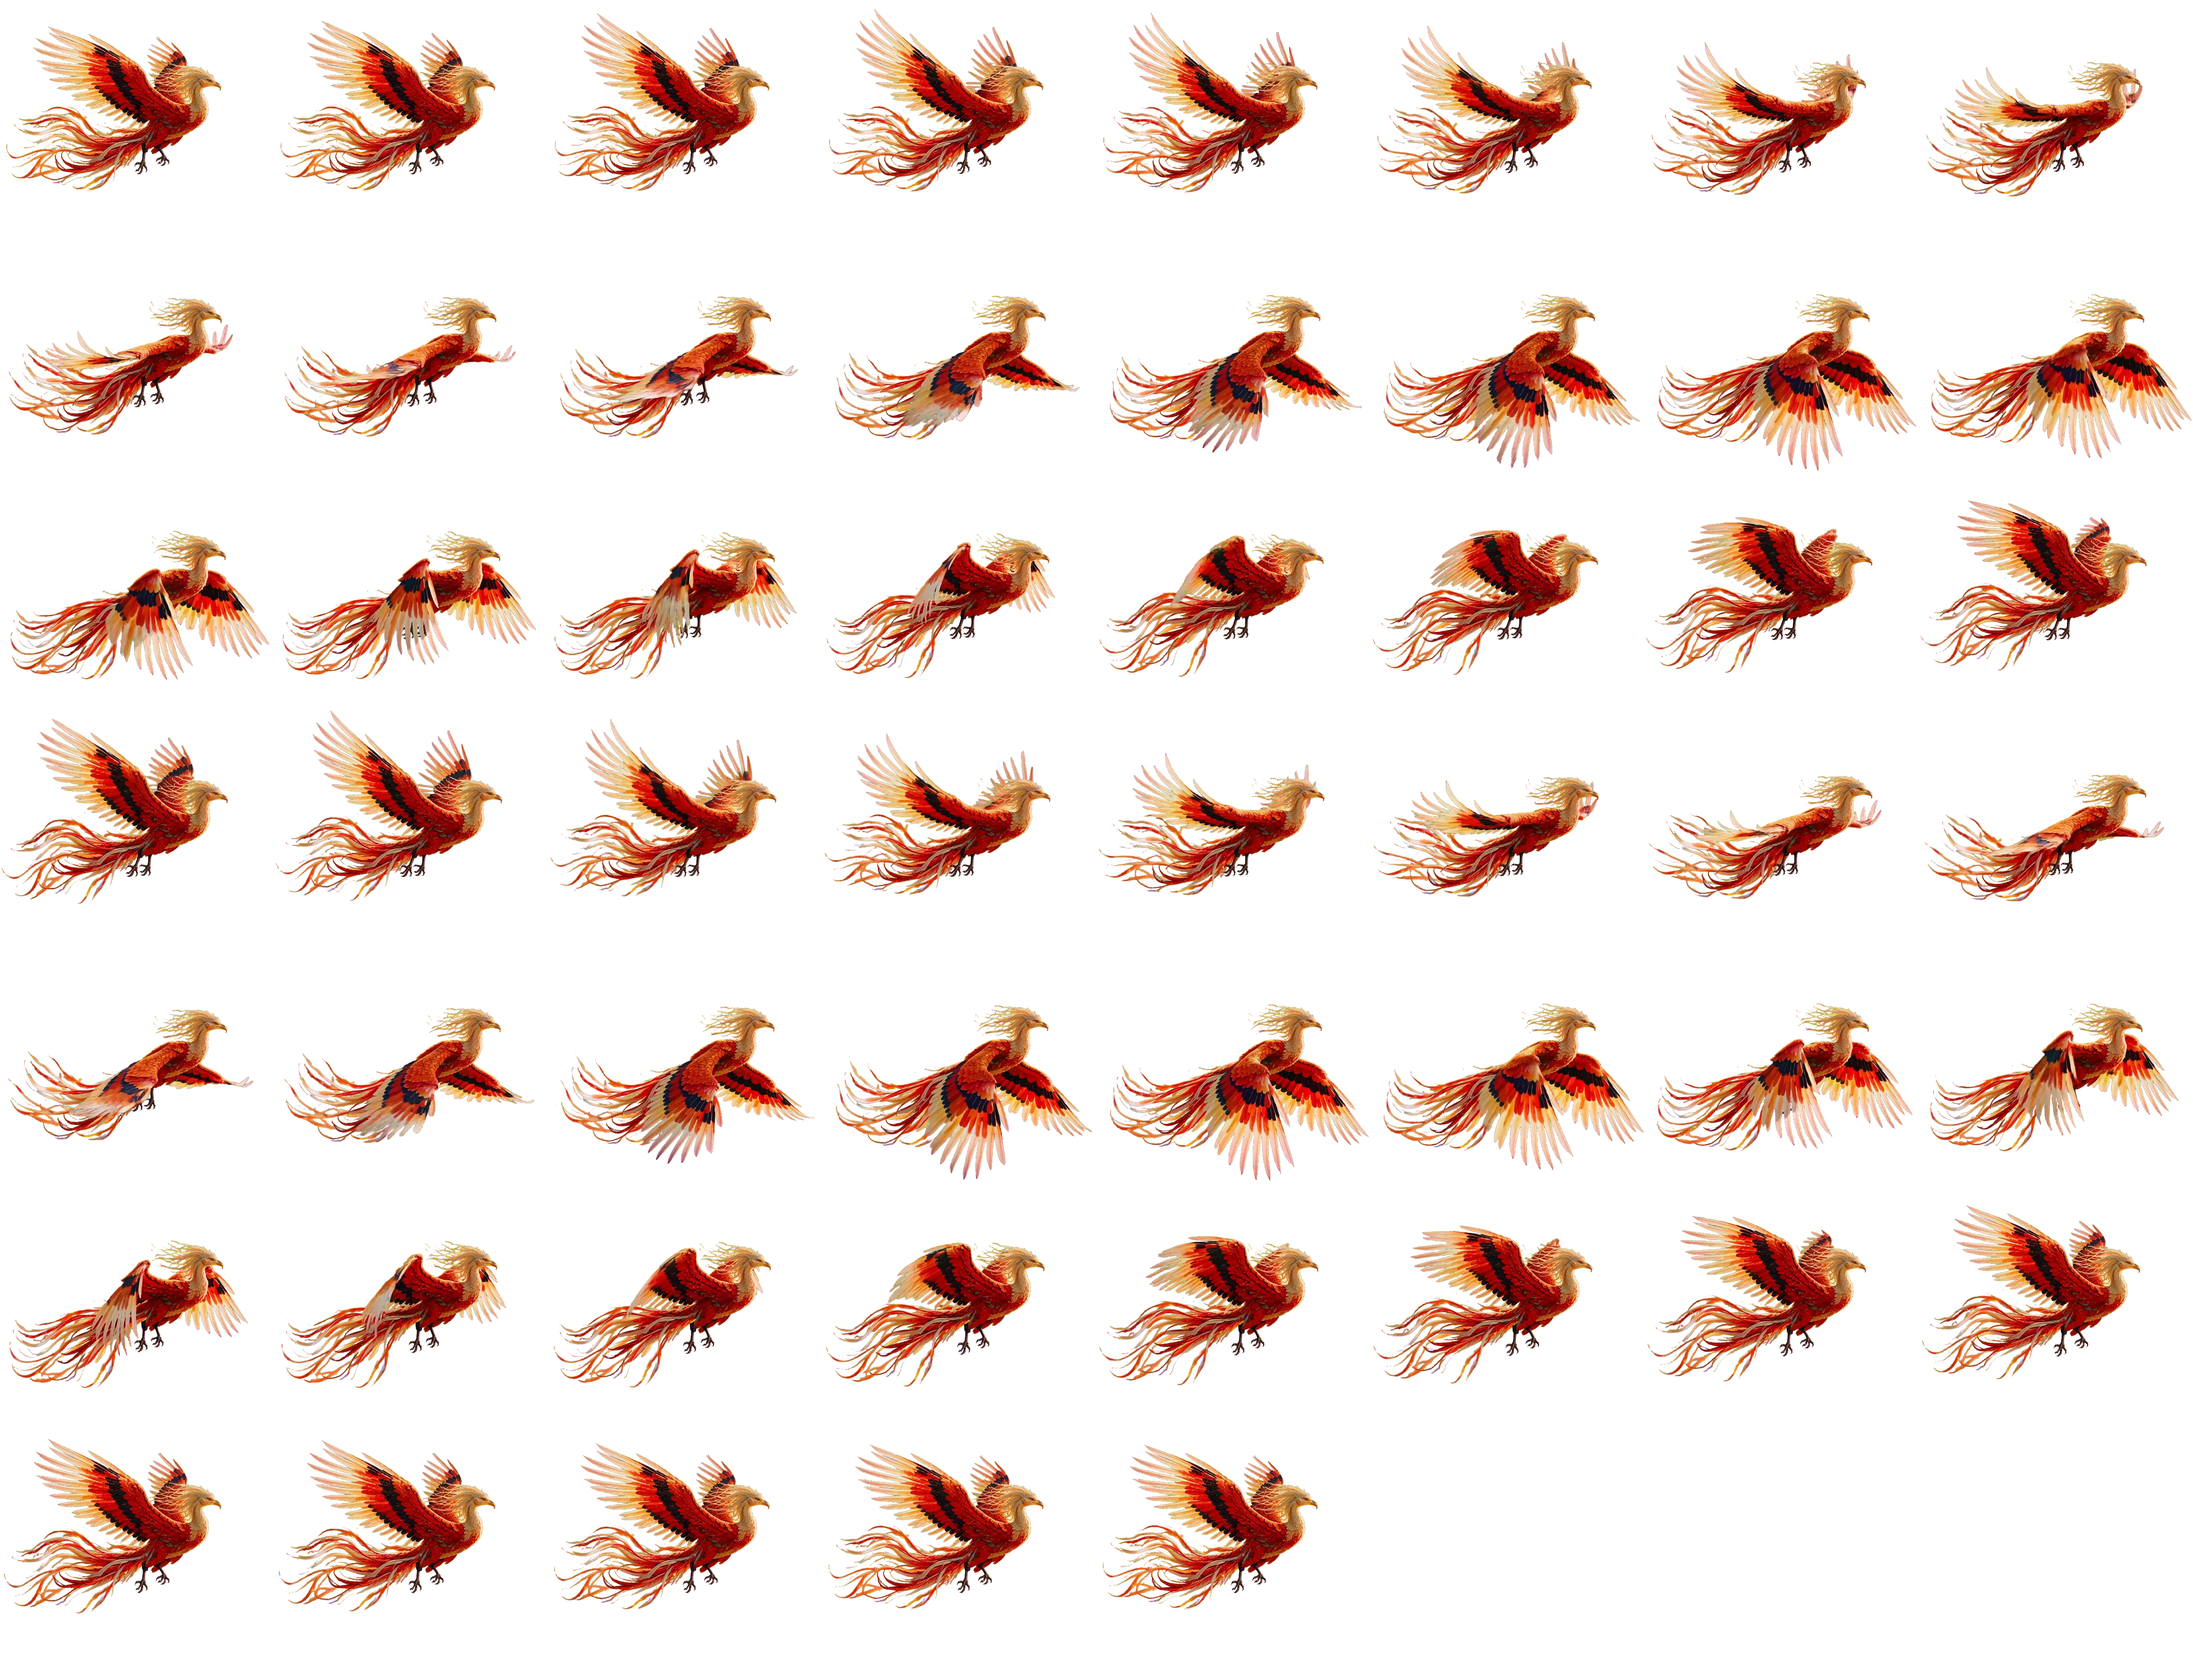
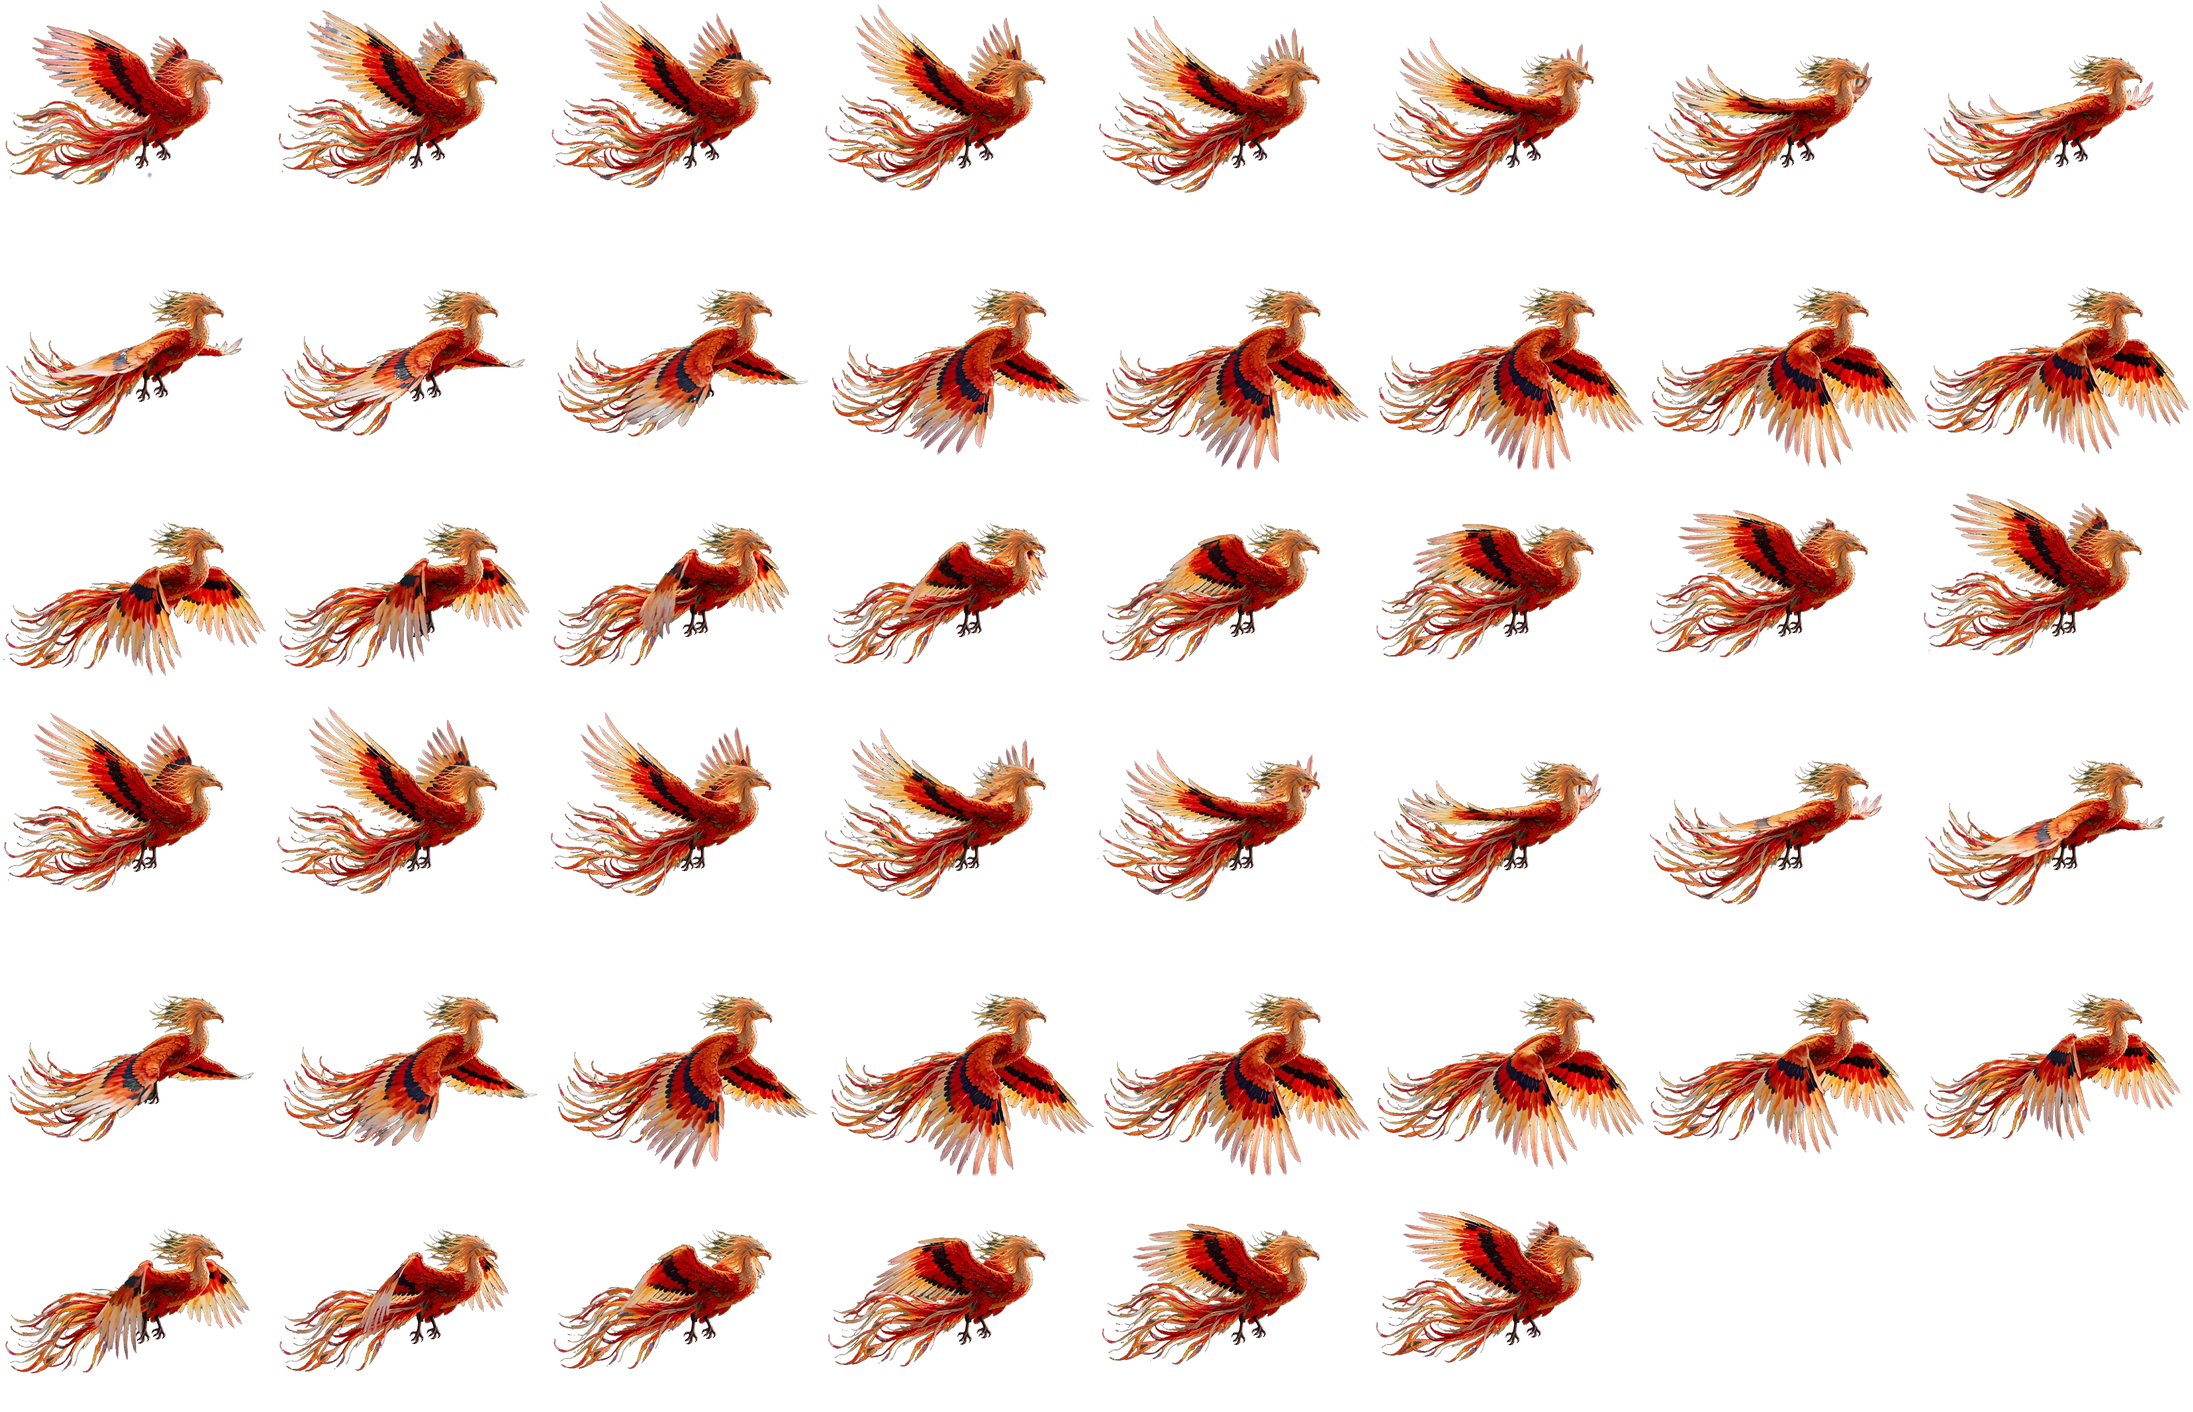
鳳凰換成 AI Video 重做的影片：從頭到尾一直拍翅（一拍約 1 秒），接回開頭也不會慢下來

diff --git a/tools/prep_phoenix2.py b/tools/prep_phoenix2.py
@@ -1,16 +1,17 @@
 """新丹鳳（金母頁）：把 AI Video 做的拍翅影片（綠背景）變成動畫圖集，光柱、光暈的圖也一起整理。
 用法: python -I tools/prep_phoenix2.py
-輸入: assets/raw/chatgpt2/phoenix2-cruise-frames/0001～0107.png（H3 影片拆好的格子，1920x1088）
-      2026-11-15 換成 cruise：真的在往前飛（翅膀一直拍、不會停，身體跟著上下、尾羽被風往後吹）。
-      舊的 phoenix2-fly 是原地拍翅、最後一秒會停住，使用者覺得飛過去不自然。
+輸入: assets/raw/chatgpt2/phoenix2-flap-frames/0001～0046.png（H3 影片拆好的格子，1920x1088，純綠 #00FF00 背景）
+      2026-11-15 換成 flap：使用者要鳳凰「持續拍翅膀，這個飛行路線應該沒辦法滑翔」。
+      AI Video 從一段長影片的中間切出一圈（不會在接頭慢下來），每 2 格取 1 格：一次拍翅 0.96 秒，一圈拍 2 次。
+      之前的 cruise 每拍一下翅膀會停在水平約 0.4 秒，看起來在滑翔。
       assets/raw/chatgpt2/compare/light-rays-1.png、warm-glow-1.png（FLUX 黑底，畫面上用「濾色」疊上去）
 輸出: assets/phoenix2/fly.webp/.json、rays.webp、glow.webp
 
 做法：
-1. 選格子：第 1～106 格每 2 格取 1 格（53 格）。第 107 格跟第 1 格一樣，不取（接回第 1 格剛好）。
-   每格播多久照翅膀動多少（wing_timing）：翅膀停住的地方快速帶過，看起來一直在拍、不會滑翔。
+1. 46 格全用，每格播 1 個影片格（24 格／秒，一圈 1.92 秒）。第 46 格接回第 1 格剛好（AI Video 量過）。
    影片裡身體本來就跟著拍翅上下，網頁上不用再加起伏。
-2. 去背：每一格背景的綠都不太一樣（量過：(7,236,15)～(29,198,45)），所以每一格自己量四個角的綠。
+   翅膀往下拍到最低時，有 4 格（13、14、36、37）羽毛尖碰到影片的下緣，會被切平：最下面幾排慢慢變透明，看不出切口。
+2. 去背：每一格自己量四個角的綠（這版都是純綠，但照樣量，換影片也能用）。
    跟綠的距離 → 透明度；邊緣把混進來的綠扣掉，殘留的綠壓掉。
 3. 鳥的身體在影片裡本來就不太動（量過），所以不對齊，全部格子共用一個裁切框。
    另外記下第 1 格鳥的框（ref）：畫面上用這個框對齊鳥的位置和大小。
@@ -28,7 +29,8 @@ RAW = Path("assets/raw/chatgpt2")
 OUT = Path("assets/phoenix2")
 CELL_W = 560
 COLS = 8
-PICK = list(range(1, 107, 2))
+PICK = list(range(1, 47))
+BOTTOM_FADE = 16  # 影片最下面幾排慢慢變透明（羽毛尖碰到下緣會被切平）
 
 
 def key(path):
@@ -41,26 +43,9 @@ def key(path):
     rgb = np.clip((im - (1 - av) * bg) / av, 0, 255)
     rgb[..., 1] = np.minimum(rgb[..., 1], np.maximum(rgb[..., 0], rgb[..., 2]))
     a[a < 0.04] = 0
+    a[-BOTTOM_FADE:] *= np.linspace(1, 0, BOTTOM_FADE)[:, None]
     # 不調淡：使用者 2026-11-15 定案「只有鳳凰是油畫風」，鳳凰保持原本的鮮豔
     return np.dstack([rgb, a * 255]).clip(0, 255).astype(np.uint8)
-
-
-def wing_timing():
-    """每一格影片該播多久（原影片 1 格 = 1）：翅膀沒在動的格子快速帶過。
-    使用者 2026-11-15：「希望鳳凰可以持續拍翅膀，這個飛行路線應該沒辦法滑翔」。
-    量過：這段影片每拍一下，翅膀會停在水平位置約 10 格（0.4 秒）；接回開頭前後也慢下來（H3 把最後一格釘住的關係）。
-    看起來像在滑翔。做法：用鳥的上緣、下緣（翅膀張到最高、最低的地方）每格變多少當「翅膀在動多少」，
-    動得少的格子播得短（最短 0.2 格），動得多的照原速。整段從 4.4 秒變 3.3 秒，一次拍翅約 1.6 秒。"""
-    tops, bots = [], []
-    for i in range(1, 108):
-        im = np.asarray(Image.open(RAW / "phoenix2-cruise-frames" / f"{i:04d}.png").convert("RGB").resize((480, 272))).astype(float)
-        bg = np.median(np.concatenate([im[:10, :10].reshape(-1, 3), im[-10:, -10:].reshape(-1, 3)]), axis=0)
-        ys, _ = np.nonzero(np.sqrt(((im - bg) ** 2).sum(axis=2)) > 90)
-        tops.append(ys.min())
-        bots.append(ys.max())
-    act = np.abs(np.diff(tops)) + np.abs(np.diff(bots))  # act[i]：第 i+1 格到第 i+2 格翅膀動多少
-    act = np.convolve(act, [0.25, 0.5, 0.25], mode="same")  # 平滑一點，快慢之間不會突然切換
-    return np.clip((act + 0.5) / 4, 0.2, 1.0)
 
 
 def bbox(mask):
@@ -69,7 +54,7 @@ def bbox(mask):
 
 
 def fly():
-    frames = [key(RAW / "phoenix2-cruise-frames" / f"{i:04d}.png") for i in PICK]
+    frames = [key(RAW / "phoenix2-flap-frames" / f"{i:04d}.png") for i in PICK]
     H, W = frames[0].shape[:2]
     union = np.zeros((H, W), bool)
     for f in frames:
@@ -83,14 +68,11 @@ def fly():
     rows = (len(frames) + COLS - 1) // COLS
     atlas = Image.new("RGBA", (COLS * CELL_W, rows * ch), (0, 0, 0, 0))
     rects = []
-    d = wing_timing()
     for i, f in enumerate(frames):
         cell = Image.fromarray(f, "RGBA").crop(box).resize((CELL_W, ch), Image.LANCZOS)
         x, y = (i % COLS) * CELL_W, (i // COLS) * ch
         atlas.alpha_composite(cell, (x, y))
-        # 每一格播多久（以原影片的格數算）：每 2 格取 1，翅膀沒在動的地方快速帶過（wing_timing）
-        p = PICK[i] - 1
-        rects.append([x, y, CELL_W, ch, round(float(d[p] + d[p + 1]), 3)])
+        rects.append([x, y, CELL_W, ch, 1])  # 每一格播 1 個影片格
     OUT.mkdir(parents=True, exist_ok=True)
     atlas.save(OUT / "fly.webp", quality=82, method=6)
     meta = {"atlas": list(atlas.size), "fps": 24, "frames": rects, "width": CELL_W, "height": ch, "ref": ref}
